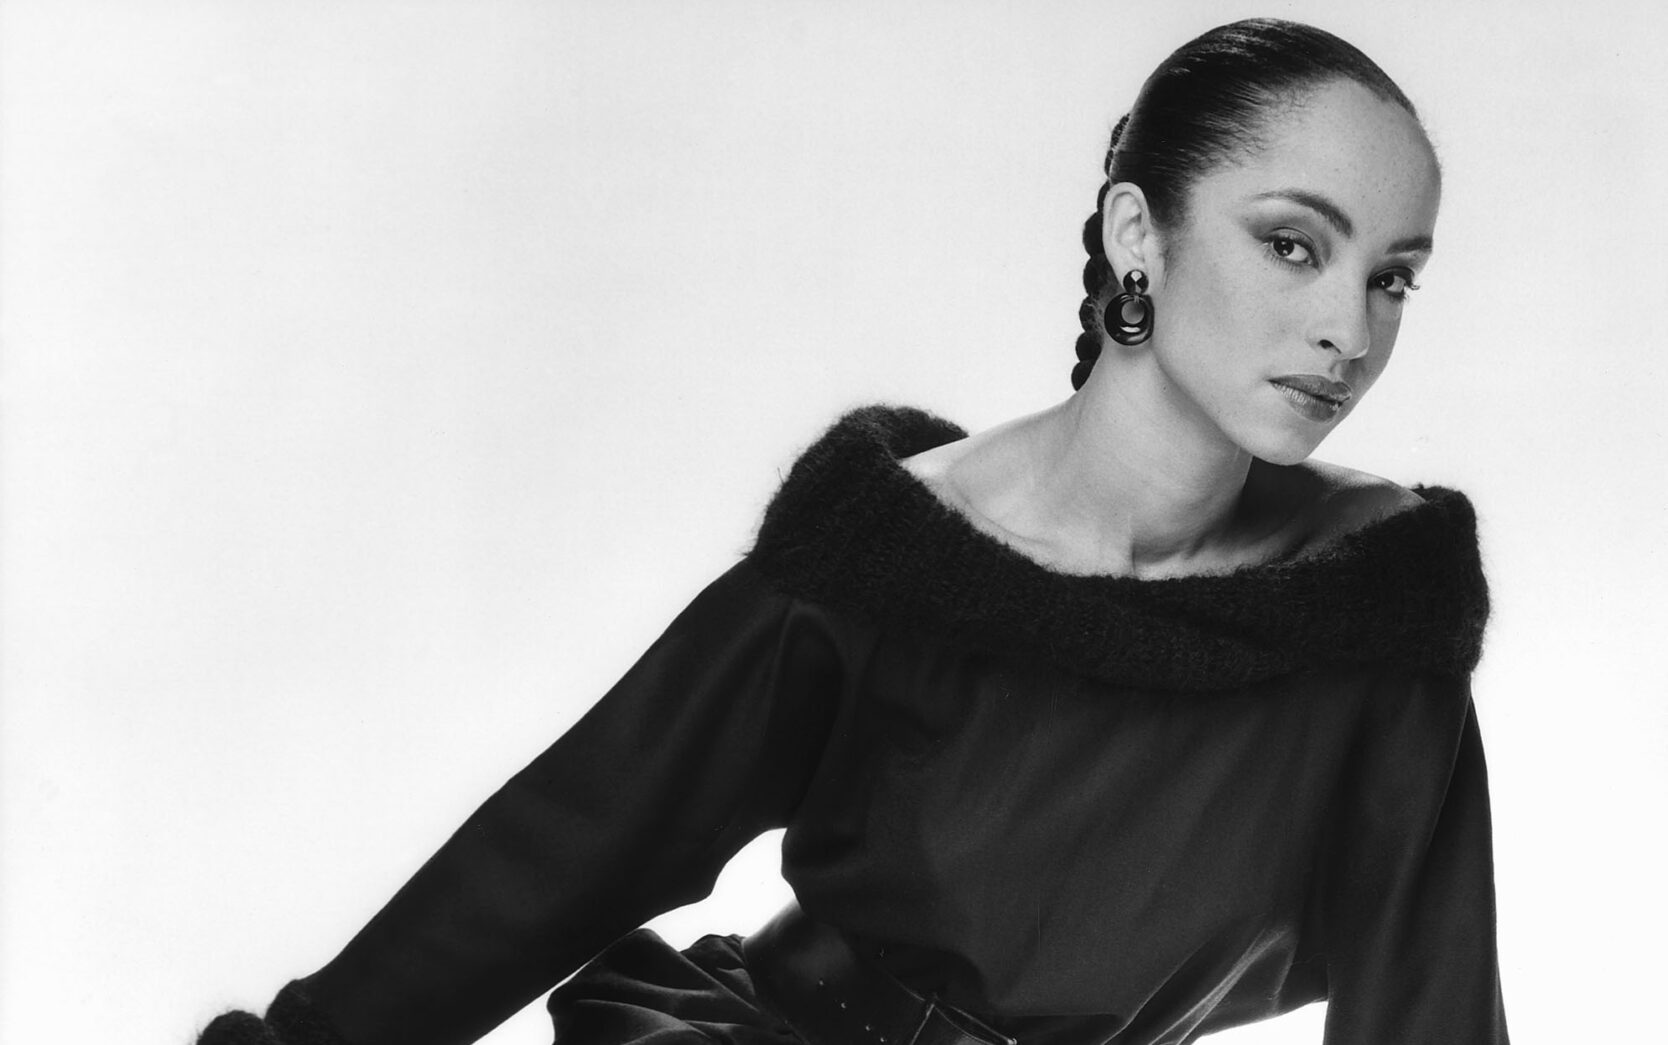
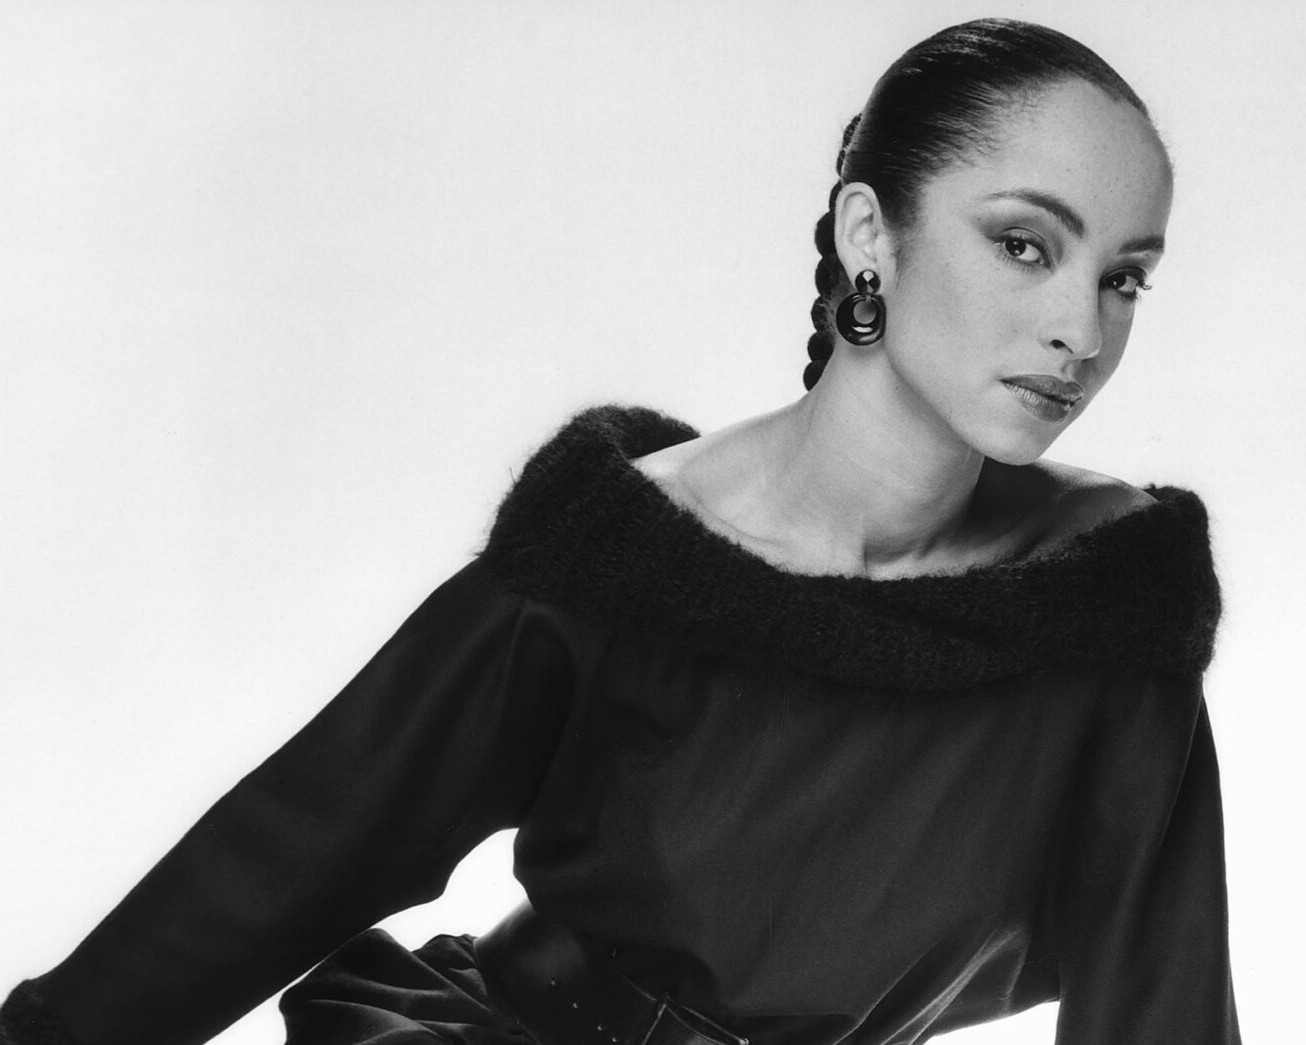
HTML - Contenido principal inicio y biografia
Utilizacion de bootstrap para tarjetas navegables en el inicio y para diseños generales (centrar imagenes, alinear textos, etc.)
Edicion de las fotos a un tamaño adecuado

diff --git a/index.html b/index.html
@@ -89,12 +89,96 @@
             </nav>
         </header>
         <main>
+            <article>
+                <h1 class="text-center mb-4">Sade Adu</h1>
+                <img src="img/inicio/inicio-1.jpg" class="img-fluid d-block mx-auto my-4" alt="Sade Adu">
+                <p class="text-center m-4">Una voz inconfundible, una identidad única y una trayectoria que atraviesa generaciones. Nacida en Nigeria y criada en Inglaterra, desarrolló una identidad artística que combina distintas influencias culturales y musicales. Desde su aparición en la década de 1980, se convirtió en una de las figuras más reconocibles de la música contemporánea, manteniendo una trayectoria marcada por la elegancia, la sensibilidad y una relación reservada con la exposición pública. <br>
+                Sade construyó un universo musical propio, fusionando soul, jazz y R&B en un estilo que se mantiene vigente a lo largo del tiempo.</p>
+                </p>
+            </article>
 
+            <!--TARJETAS CON NAVEGACIÓN-->
+            <section id="secciones" class="container py-5">
+                <h2 class="text-center mb-4">Explorá el universo Sade</h2>
+                <div class="row g-4"> <!--Row establece la fila y g-4 el gap-->
+                    <!-- TARJETA 1 -->
+                    <div class="col-12 col-md-4">
+                        <!--col-12 determina que cada tarjeta ocupe todo el ancho en celulares y col-md-4 define que haya tres tarjetas en pantallas medianas o grandes-->
+
+                        <div class="card tarjeta h-100"> 
+                            <!--h-100 hace que todas tengan la misma altura dentro de la fila-->
+                            <img src="img/inicio/inicio-2.jpg"
+                                class="card-img-top"
+                                alt="Retrato de Sade Adu">
+
+                            <div class="card-body">
+                                <h3 class="card-title">Trayectoria</h3>
+
+                                <p class="card-text">
+                                    Conocé la historia de Sade y descubrí
+                                    cómo fue construyendo su identidad artística.
+                                </p>
+
+                                <div>
+                                    <a href="seccion-1/index.html">Biografía</a>
+                                    <a href="seccion-1/evolucion.html">Evolución artística</a>
+                                </div>
+                            </div>
+                        </div>
+                    </div>
+
+                    <!-- TARJETA 2 -->
+                    <div class="col-12 col-md-4">
+                        <div class="card tarjeta h-100">
+                            <img src="img/inicio/inicio-3.jpg"
+                                class="card-img-top"
+                                alt="Portada del álbum Diamond Life">
+
+                            <div class="card-body">
+                                <h3 class="card-title">Discografía</h3>
+
+                                <p class="card-text">
+                                    Explorá sus álbumes y conocé la identidad
+                                    visual que acompaña su música.
+                                </p>
+
+                                <div>
+                                    <a href="seccion-2/index.html">Discografía</a>
+                                    <a href="seccion-2/identidad-visual.html">Identidad visual</a>
+                                </div>
+                            </div>
+                        </div>
+                    </div>
+
+                    <!-- TARJETA 3 -->
+                    <div class="col-12 col-md-4">
+                        <div class="card tarjeta h-100">
+                            <img src="img/inicio/inicio-4.jpg"
+                                class="card-img-top"
+                                alt="Sade durante una presentación en vivo">
+
+                            <div class="card-body">
+                                <h3 class="card-title">Giras y legado</h3>
+
+                                <p class="card-text">
+                                    Recorré sus presentaciones en vivo y
+                                    descubrí la huella que dejó en la música.
+                                </p>
+
+                                <div>
+                                    <a href="seccion-3/index.html">Giras</a>
+                                    <a href="seccion-3/legado.html">Legado</a>
+                                </div>
+                            </div>
+                        </div>
+                    </div>
+                </div>
+
+            </section>
         </main>
         <footer>
-
         </footer>
         <!-- Bootstrap JavaScript -->
-    |   <script src="https://cdn.jsdelivr.net/npm/bootstrap@5.3.8/dist/js/bootstrap.bundle.min.js"></script>
+       <script src="https://cdn.jsdelivr.net/npm/bootstrap@5.3.8/dist/js/bootstrap.bundle.min.js"></script>
     </body>
 </html>

diff --git a/seccion-1/index.html b/seccion-1/index.html
@@ -89,7 +89,39 @@
             </nav>
         </header>
         <main>
+            <h1 class="text-center mb-4">Sade Adu</h1>
+            <h2 class="text-center mb-4">Sus orígenes</h2>
+            <img src="../img/biografia/biografia-1.jpg" class="img-fluid d-block mx-auto my-4" alt="Retrato de Sade">
+            <section>
+                <h3>Una vida entre dos culturas</h3>
+                
+                <p>Sade nació el 16 de enero de 1959 en Ibadan, Nigeria. Su padre, Adebisi Adu, era profesor de economía, mientras que su madre, Anne Hayes, era una enfermera inglesa. Cuando tenía cuatro años, sus padres se separaron y se trasladó junto a su madre y su hermano mayor a Inglaterra, donde creció en las cercanías de Colchester, en el condado de Essex. </p>
 
+                <p>Durante su adolescencia desarrolló un profundo interés por la música soul estadounidense, influenciada por artistas como Curtis Mayfield, Donny Hathaway y Bill Withers. Sin embargo, su primera orientación profesional no estuvo relacionada con la música: se trasladó a Londres para estudiar diseño de moda en St Martin's School of Art. Durante ese período también trabajó ocasionalmente como modelo.</p>
+            </section>
+            <section>
+                <h3>El comienzo de su carrera musical</h3>
+                <img src="../img/biografia/biografia-2.jpg" alt="Sade y su banda">
+                <p>Su acercamiento profesional a la música ocurrió de manera gradual. Un grupo de antiguos compañeros le propuso participar como vocalista en una banda que necesitaba una cantante. Posteriormente se incorporó a Pride, un grupo londinense de funk latino con el que comenzó a presentarse en distintos escenarios del Reino Unido.</p>
+
+                <p>Durante sus actuaciones con Pride, Sade empezó a destacarse por sus interpretaciones de jazz y por su presencia escénica. Una de las canciones que interpretaba junto a un pequeño grupo de músicos era Smooth Operator, composición que despertó el interés de representantes de distintas discográficas.</p>
+
+                <p>En 1983, después de un período de negociaciones, firmó un contrato con Epic Records bajo una condición fundamental: continuar trabajando junto a tres de sus compañeros de Pride, Stuart Matthewman, Andrew Hale y Paul Spencer Denman. Así nació la formación musical conocida como Sade, que tomó el nombre artístico de su cantante principal.</p>
+            </section>
+            <section>
+                <h3>Reconocimiento internacional</h3>
+                <img src="../img/biografia/biografia-3.jpg" alt="Sade y su banda">
+                <p>En 1984, la banda publicó su primer álbum de estudio, Diamond Life, que rápidamente obtuvo reconocimiento internacional. El disco incluyó canciones como Your Love Is King, Smooth Operator y Hang On to Your Love, que contribuyeron a establecer su identidad musical y a posicionarla dentro de la escena internacional.</p>
+                <p>Durante los años siguientes publicaron Promise (1985) y Stronger Than Pride (1988), consolidando su popularidad con una propuesta que combinaba elementos del jazz, el soul y el pop contemporáneo.</p>
+                <p>La década de 1990 estuvo marcada por el lanzamiento de Love Deluxe (1992), un álbum que profundizó el carácter atmosférico e introspectivo de su música. Sin embargo, después de esta etapa, la banda atravesó un período de menor actividad discográfica.</p>
+                <p>Después de varios años sin publicar material de estudio, Sade regresó en 2000 con Lovers Rock, un álbum que presentó una sonoridad más íntima y que obtuvo una importante recepción internacional. Diez años más tarde, en 2010, publicó Soldier of Love, su sexto álbum de estudio.</p>
+            </section>
+            <article>
+                <h3>Una trayectoria a su propio ritmo</h3>
+                <img src="../img/biografia/biografia-4.jpg" alt="Retrato de Sade">
+                <p>A diferencia de otros artistas de su generación, Sade mantuvo una relación distante con la exposición mediática y desarrolló su carrera sin seguir un ritmo constante de lanzamientos. La cantante ha expresado en distintas oportunidades que prefiere publicar música cuando siente que tiene algo significativo para comunicar.</p>
+                <p>Su trayectoria demuestra que es posible sostener una identidad artística reconocible sin depender de la presencia permanente en los medios. A lo largo de más de cuatro décadas, Sade construyó una obra que continúa conectando con distintas generaciones de oyentes.</p>
+            </article>
         </main>
         <footer>
 
